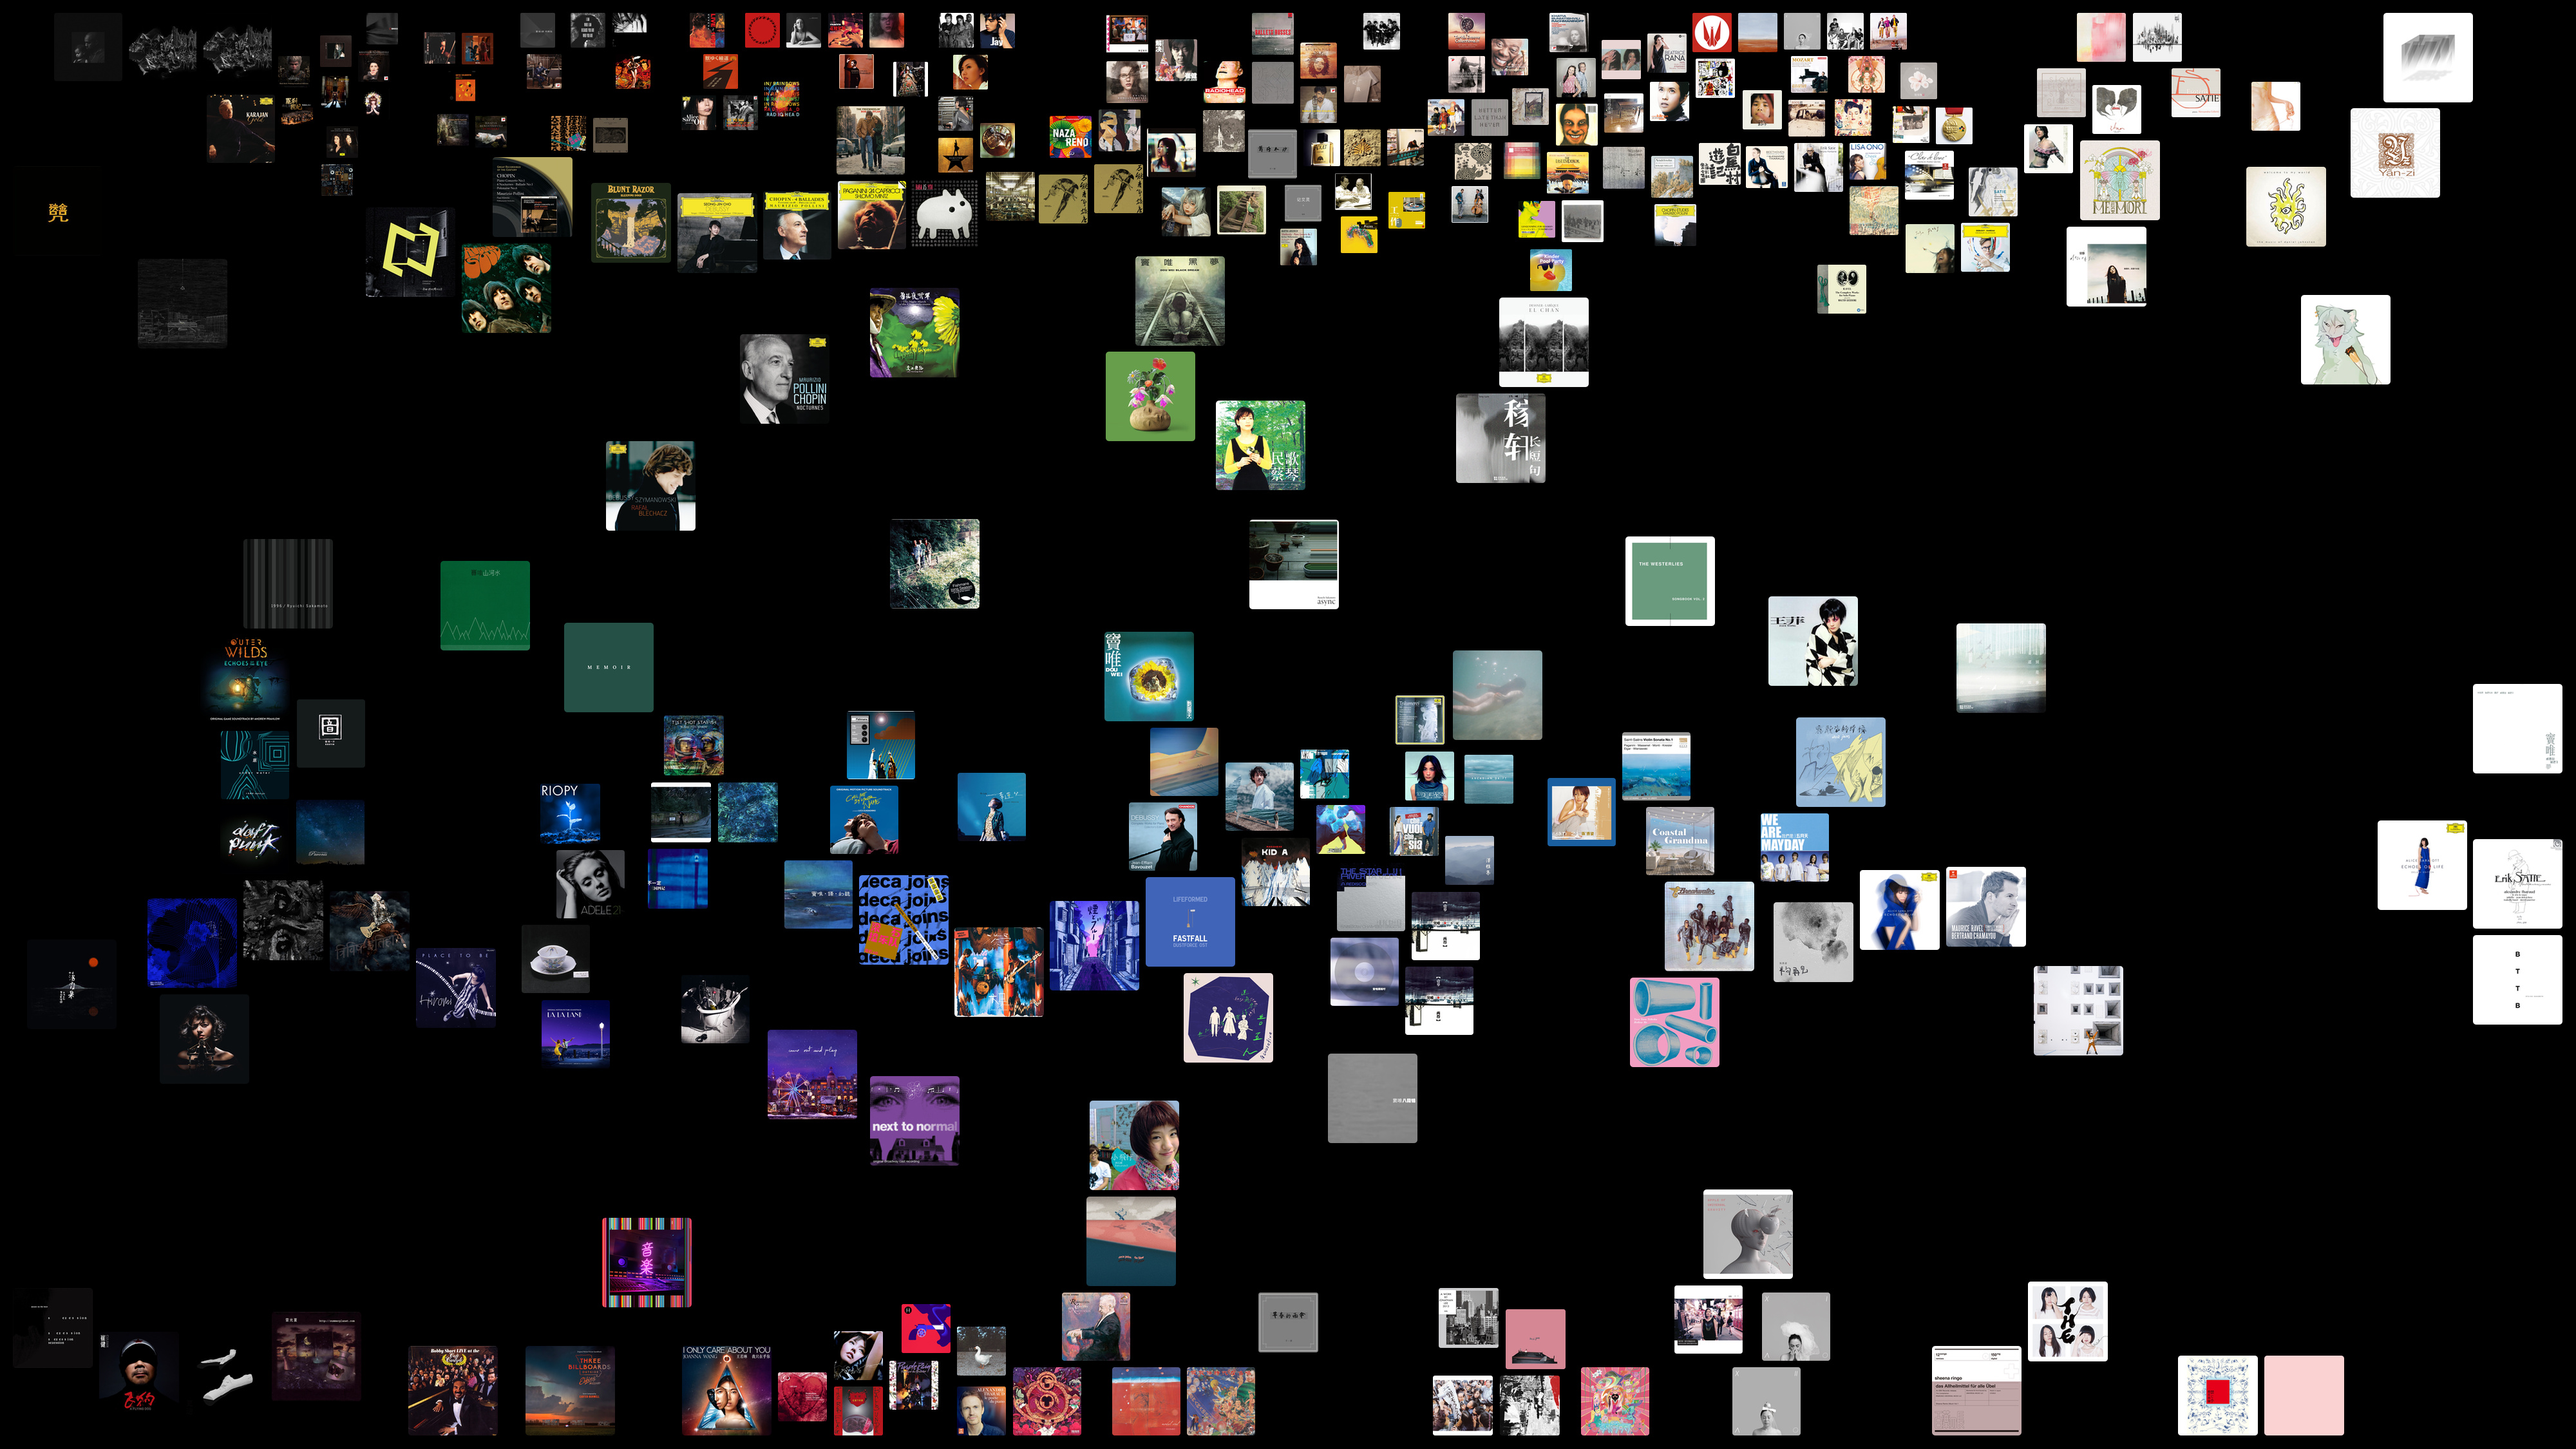
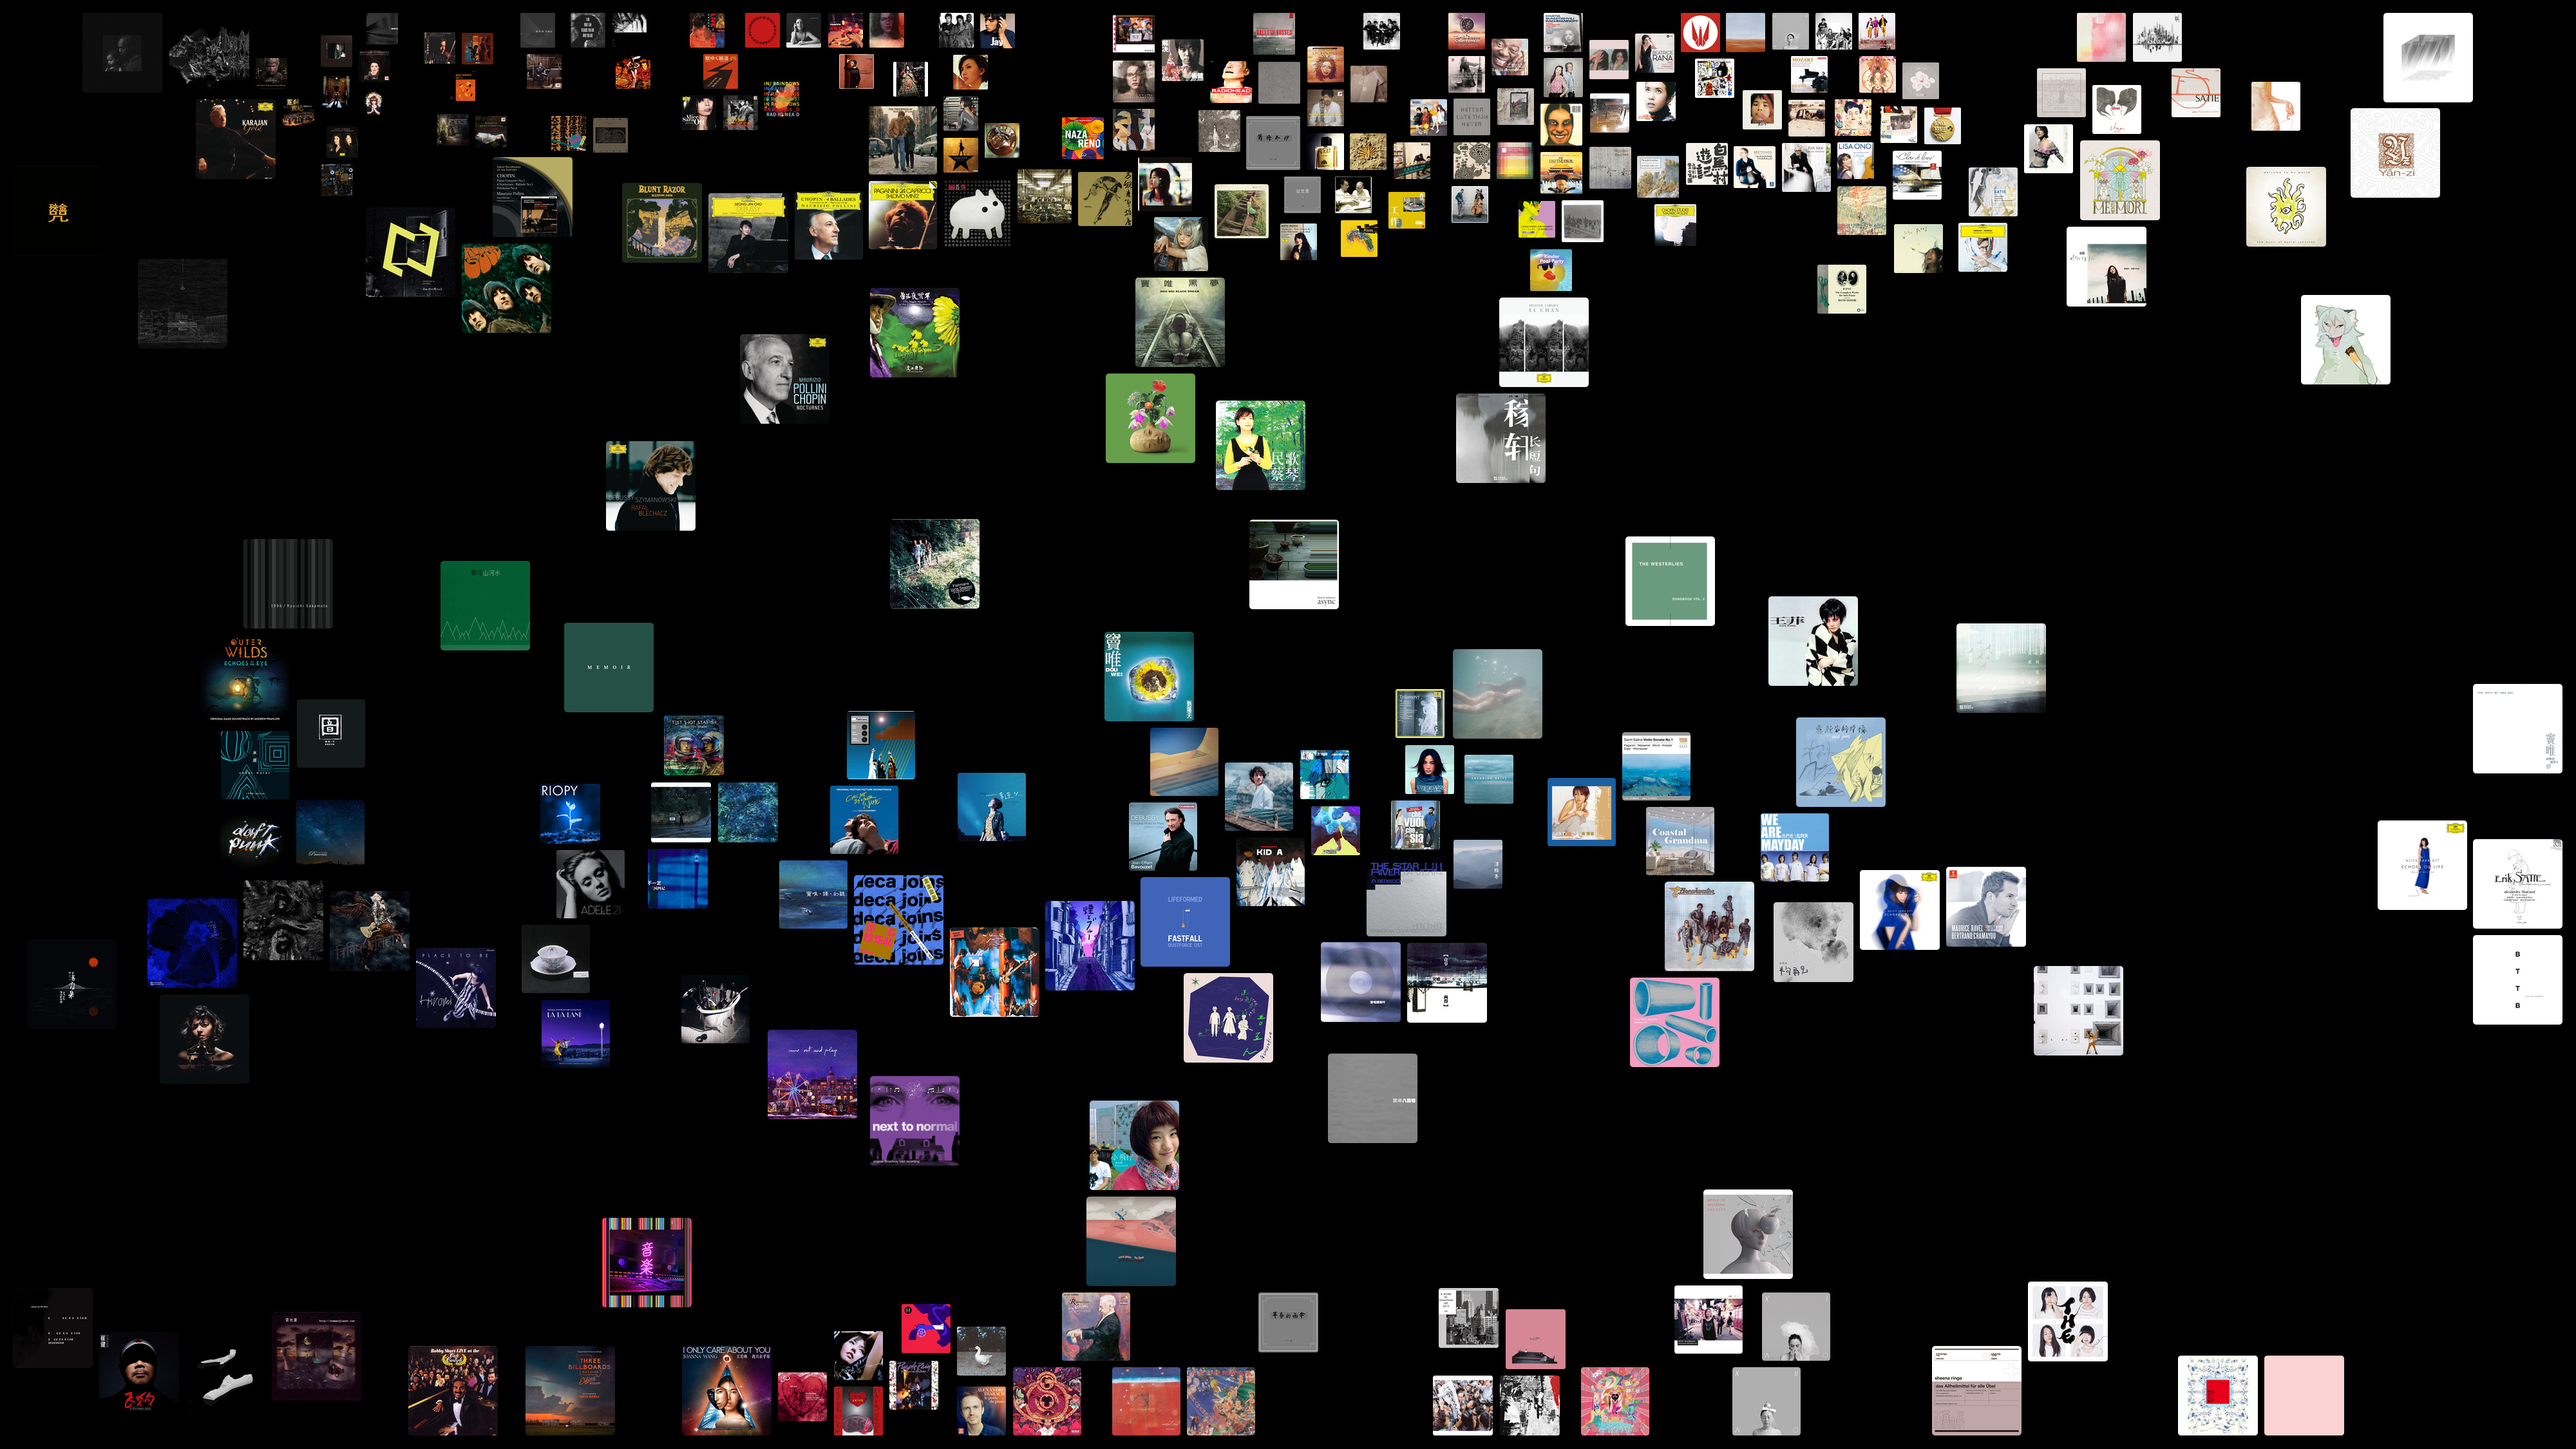
fix: 用 ORB 特征匹配去除缩放/裁切后的重复封面
dHash 对同一封面但裁切比例不同的图片不敏感，导致万能青年旅店等
封面在拼图中重复出现。改为 ORB 特征匹配 + 单应性内点判定，
可以识别裁切、缩放和重新导出的重复封面。

- 去重阈值：单应性内点 >= 60
- 本次从 263 张封面中去掉 10 张重复封面，253 张入图
- 重新生成 hue-brightness.jpg（4000x2250，0 重叠）

Changed region(s): [[0.2188, 0.0, 0.7812, 0.3422], [0.3125, 0.4667, 0.5938, 0.7156], [0.0312, 0.0, 0.1562, 0.0933]]

diff --git a/album_rainbow.py b/album_rainbow.py
@@ -2,6 +2,7 @@ import argparse
 import colorsys
 import os
 
+import cv2
 import numpy as np
 from PIL import Image, ImageOps
 
@@ -16,7 +17,9 @@ MAX_SCALE = 0.22
 COVER_GAP = 10
 MARGIN = 20
 LAYOUT_ITERATIONS = 600
-DEDUPE_DISTANCE = 2
+DEDUPE_INLIERS = 60
+ORB = cv2.ORB_create(nfeatures=300)
+MATCHER = cv2.BFMatcher(cv2.NORM_HAMMING)
 
 
 def get_images_from_folder(folder_path):
@@ -43,23 +46,57 @@ def get_brightness_and_hue_for_images(images):
     return [get_brightness_and_hue(path) for path in images]
 
 
-def difference_hash(image_path, size=16):
-    gray = ImageOps.grayscale(Image.open(image_path))
-    gray = gray.resize((size + 1, size), Image.LANCZOS)
-    pixels = np.asarray(gray, dtype=np.int16)
-    return (pixels[:, 1:] > pixels[:, :-1]).flatten()
+def get_cover_features(image_path):
+    """提取用于重复封面检测的 ORB 特征。"""
+    image = cv2.imread(image_path, cv2.IMREAD_GRAYSCALE)
+    if image is None:
+        return np.zeros((0, 2), dtype=np.float32), np.zeros((0, 32), dtype=np.uint8)
+
+    scale = 256 / max(image.shape)
+    if scale < 1:
+        image = cv2.resize(image, None, fx=scale, fy=scale)
+
+    keypoints, descriptors = ORB.detectAndCompute(image, None)
+    points = np.float32([keypoint.pt for keypoint in keypoints])
+    if descriptors is None:
+        descriptors = np.zeros((0, 32), dtype=np.uint8)
+    return points, descriptors
 
 
-def dedupe_images(images, max_distance=DEDUPE_DISTANCE):
-    """去掉封面完全相同的重复专辑（同一张图的不同版本/语言标签）。"""
-    kept, hashes = [], []
+def is_same_cover(features_a, features_b, min_inliers=DEDUPE_INLIERS):
+    """同一封面即使被裁切、缩放，也能通过单应性内点数量判定。"""
+    points_a, descriptors_a = features_a
+    points_b, descriptors_b = features_b
+    if len(descriptors_a) < 2 or len(descriptors_b) < 2:
+        return False
+
+    matches = MATCHER.knnMatch(descriptors_a, descriptors_b, k=2)
+    good = [
+        pair[0] for pair in matches
+        if len(pair) == 2 and pair[0].distance < 0.75 * pair[1].distance
+    ]
+    if len(good) < 4:
+        return False
+
+    src = np.float32([points_a[m.queryIdx] for m in good]).reshape(-1, 1, 2)
+    dst = np.float32([points_b[m.trainIdx] for m in good]).reshape(-1, 1, 2)
+    try:
+        _, mask = cv2.findHomography(src, dst, cv2.RANSAC, 5.0)
+    except cv2.error:
+        return False
+    return mask is not None and int(mask.sum()) >= min_inliers
+
+
+def dedupe_images(images, min_inliers=DEDUPE_INLIERS):
+    """去掉同一封面被不同专辑、版本或语言标签重复收录的情况。"""
+    kept, features = [], []
     for path in images:
-        digest = difference_hash(path)
-        if any(np.count_nonzero(digest != other) <= max_distance
-               for other in hashes):
+        digest = get_cover_features(path)
+        if any(is_same_cover(digest, other, min_inliers)
+               for other in features):
             continue
         kept.append(path)
-        hashes.append(digest)
+        features.append(digest)
     return kept
 
 
